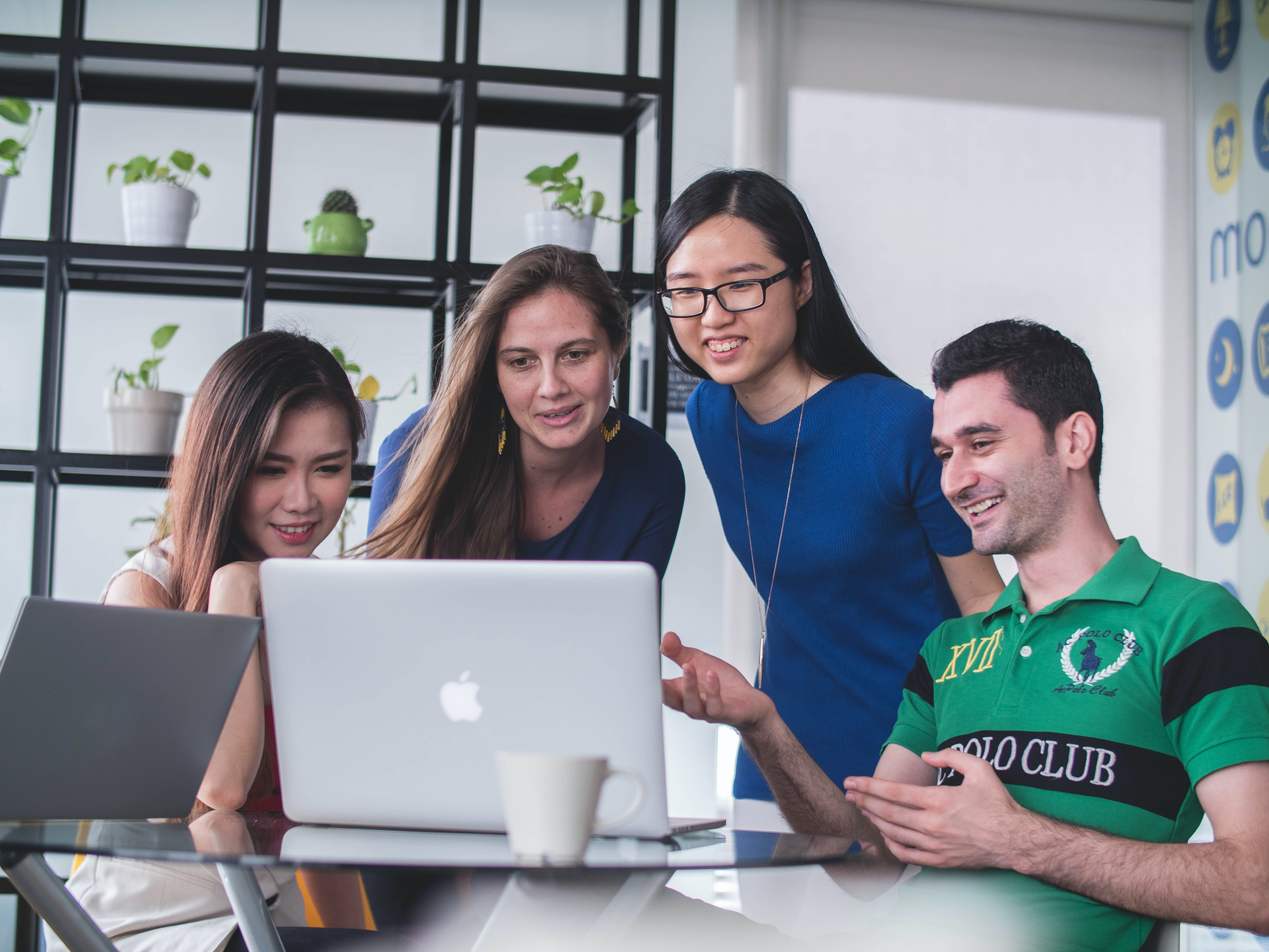
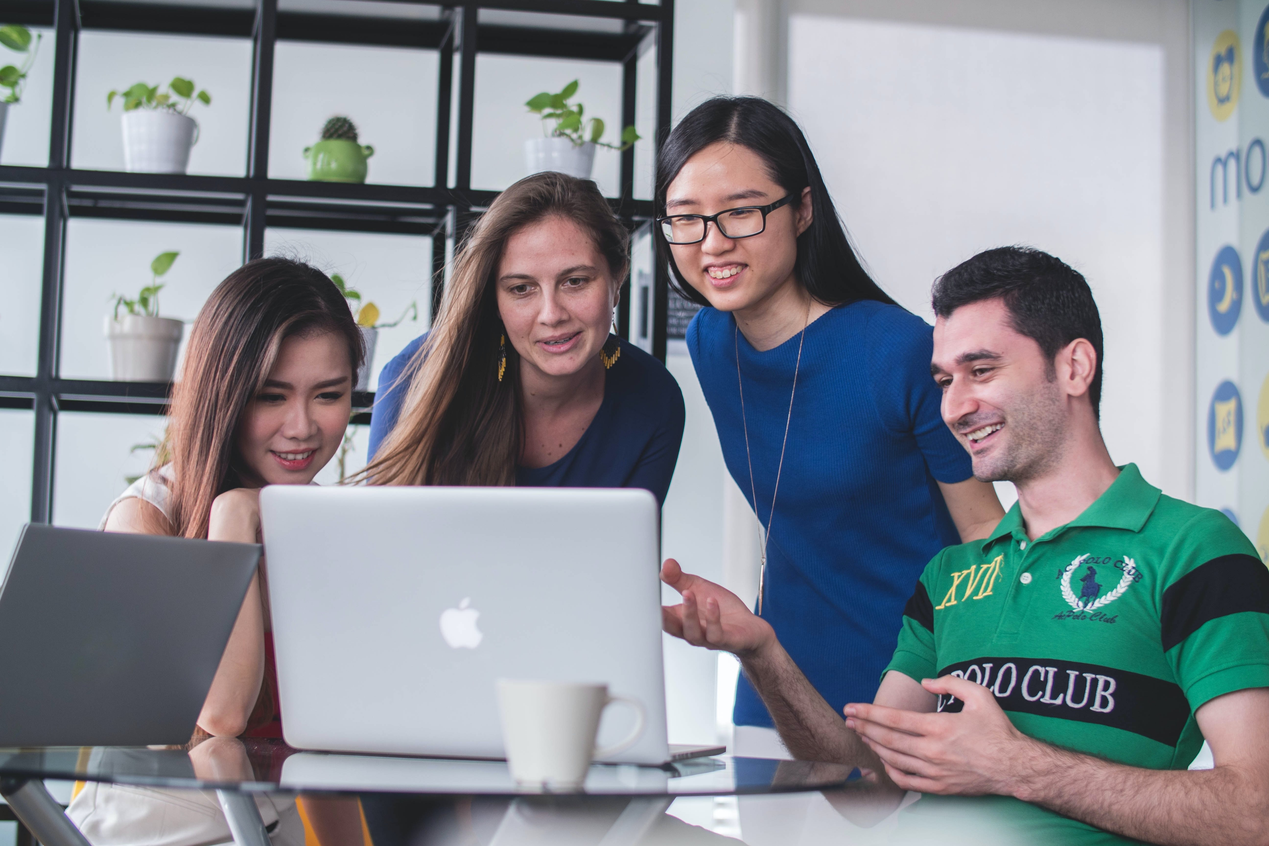
Updated Colors  and Home PG
I updated the home page with a different set of images that I edited in XD
I also changed the colors

diff --git a/index.html b/index.html
@@ -10,7 +10,7 @@
 </head>
 <body>
   <header class="top-nav">
-    <a href="#" class="nav-link logo"> A College Girls Guide to Clothing &nbsp;</a>
+    <a href="#" class="nav-link logo"> A College Girls Guide to Inspiration &nbsp;</a>
     <nav id="site-nav" class="nav-wrap">
         <li class="nav-link"><a href="index.html">Home</a></li>
         <li class="nav-link"><a href="gym.html">Gym</a></li>
@@ -22,22 +22,13 @@
   <main>
     <section class="slideshow">
       <figure class="slides">
-        <img src="img/Pow.jpg" />
+        <img src="img/realmain1.png" />
       </figure>
       <figure class="slides">
-        <img src="img/Yoshi.jpg" />
+        <img src="img/realmain2.png" />
       </figure>
       <figure class="slides">
-        <img src="img/Lilly.jpg" />
-      </figure>
-      <figure class="slides">
-        <img src="img/Joe-Frank.jpg" />
-      </figure>
-      <figure class="slides">
-        <img src="img/Sugar.jpg" />
-      </figure>
-      <figure class="slides">
-        <img src="img/Oscar.jpg" />
+        <img src="img/realmain3.png" />
       </figure>
       <div class="controls">
         <button class="prev" onclick="plusSlides(-1)">&#8249;</button>
@@ -50,18 +41,12 @@
       </div>
     </section>
     <div class="pics">
-      <img class="pic" src="img/Pow.jpg" onclick="currentSlide(1)" 
-      alt="Pow" />
-      <img class="pic" src="img/Yoshi.jpg" onclick="currentSlide(2)" 
-      alt="Yoshi" />
-      <img class="pic" src="img/Lilly.jpg" onclick="currentSlide(3)" 
-      alt="Lilly" />
-      <img class="pic" src="img/Joe-Frank.jpg" onclick="currentSlide(4)" 
-      alt="Joe and Frank" />
-      <img class="pic" src="img/Sugar.jpg" onclick="currentSlide(5)" 
-      alt="Sugar" />
-      <img class="pic" src="img/Oscar.jpg" onclick="currentSlide(6)" 
-      alt="Oscar" />
+      <img class="pic" src="img/realmain1.png" onclick="currentSlide(1)" 
+      alt="School Accessories" />
+      <img class="pic" src="img/realmain2.png" onclick="currentSlide(2)" 
+      alt="Weekend Vibes" />
+      <img class="pic" src="img/realmain3.png" onclick="currentSlide(3)" 
+      alt="Gym Clothes" />
     </div>
     <section class="grid-cont">
       <article class="card">
@@ -105,7 +90,7 @@
             <p>School is stressful enough. Don't add the stress of what you'll need. Check out some trending pieces and set-ups to inspire you! </p>
             <p></p>
         </div>
-        <button class="open-modal" onclick="expand('79th')">Read More <i data-feather="chevrons-up"></i></button>
+        <button class="open-modal" onclick="expand('79th')">Dive In <i data-feather="chevrons-up"></i></button>
       </article>
     </section>
   <footer>

diff --git a/css/style.css b/css/style.css
@@ -1,6 +1,6 @@
 :root {/*-- sets color variables --*/
-    --dark: #3a3733;
-    --ltmid: #c9b898;
+    --dark: #4b4741;
+    --ltmid: #7c776c;
     --dkmid: #68635a;
     --light: #ecebe8;
     --accent: #ebc4f3;
@@ -8,7 +8,7 @@
   body {
     color: var(--dark); /*-- sets body default font color --*/
     line-height: 1.4; /*-- sets body default line height --*/
-    background-color: #68635a;
+    background-color: #9b9588;
   }
   /*-- default styles for links (in the correct order) --*/
   a {color: var(--accent); font-weight: 500; text-decoration: none; transition: all .25s ease-in-out;}
@@ -176,7 +176,7 @@
     flex-direction: column; /*-- flow is downward --*/
     border-radius: 8px; /*-- curved edges --*/
     border: 3px solid var(--dkmid); 
-    background-color: #738371; /*-- a little bit of light color --*/
+    background-color: #c2bdb2; /*-- a little bit of light color --*/
   }
   .card img { /*-- selects image children of .card --*/
     width: 100%; /*-- full width of container --*/
